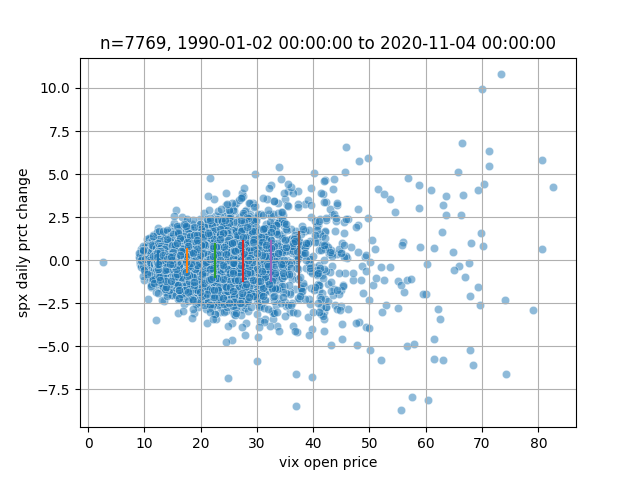
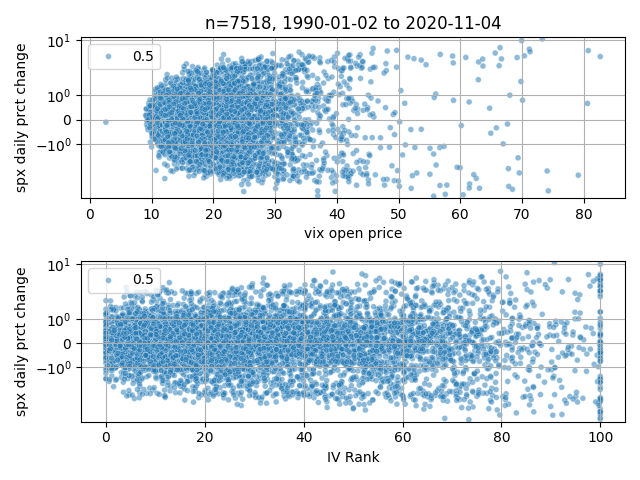
wip

diff --git a/scratch/archive/jiajun/run.py b/scratch/archive/jiajun/run.py
@@ -1,4 +1,5 @@
 import datetime
+import numpy as np
 import pandas as pd
 import matplotlib.pyplot as plt
 import seaborn as sns
@@ -23,34 +24,49 @@ print(vix_df.shape)
 
 df = vix_df.merge(spx_df,how='left',on=['tstamp'])
 df = df.dropna()
+min_tstamp = df.tstamp.min().strftime('%Y-%m-%d')
+max_tstamp = df.tstamp.max().strftime('%Y-%m-%d')
 print(df.head())
 print(df.shape)
 
 df['prct_change'] = 100*(df.spx_close-df.spx_open)/df.spx_open
 
+# https://www.tastylive.com/concepts-strategies/implied-volatility-rank-percentile
+def iv_rank(w):
+    return 100* ( w.iloc[-1] - np.min(w) ) / (np.max(w)-np.min(w))
+
+df['iv_rank'] =df.vix_open.rolling(252).apply(iv_rank)
+df = df.dropna()
+
 fig = plt.figure()
-ax = fig.add_subplot(1,1,1)
-sns.scatterplot(df,x='vix_open',y='prct_change',alpha=0.5,ax=ax)
-#ax.set_yscale('symlog')
+ax = fig.add_subplot(2,1,1)
+sns.scatterplot(df,x='vix_open',y='prct_change',alpha=0.5,size=0.5,ax=ax)
+ax.set_yscale('symlog')
 plt.xlabel('vix open price')
 plt.ylabel('spx daily prct change')
-plt.plot([12.5,12.5],[-0.41,0.45])
-plt.plot([17.5,17.5],[-0.66,0.66])
-plt.plot([22.5,22.5],[-0.99,0.92])
-plt.plot([27.5,27.5],[-1.19,1.10])
-plt.plot([32.5,32.5],[-1.19,1.10])
-plt.plot([37.5,37.5],[-1.56,1.62])
-
-plt.title(f"n={len(df)}, {df.iloc[0,:].tstamp} to {df.iloc[-1,:].tstamp}")
+plt.title(f"n={len(df)}, {min_tstamp} to {max_tstamp}")
 plt.grid(True)
+
+ax = fig.add_subplot(2,1,2)
+sns.scatterplot(df,x='iv_rank',y='prct_change',alpha=0.5,size=0.5,ax=ax)
+ax.set_yscale('symlog')
+plt.xlabel('IV Rank')
+plt.ylabel('spx daily prct change')
+plt.grid(True)
+
+plt.tight_layout()
 plt.savefig("prct_change.png")
 plt.close()
+
 
 fig = plt.figure()
 plt.subplot(211)
 plt.plot(df.tstamp,df.spx_close)
+plt.title("SPX")
+plt.grid(True)
 plt.subplot(212)
 plt.plot(df.tstamp,df.vix_close)
+plt.title("VIX")
 plt.grid(True)
 plt.savefig("price.png")
 plt.close()
